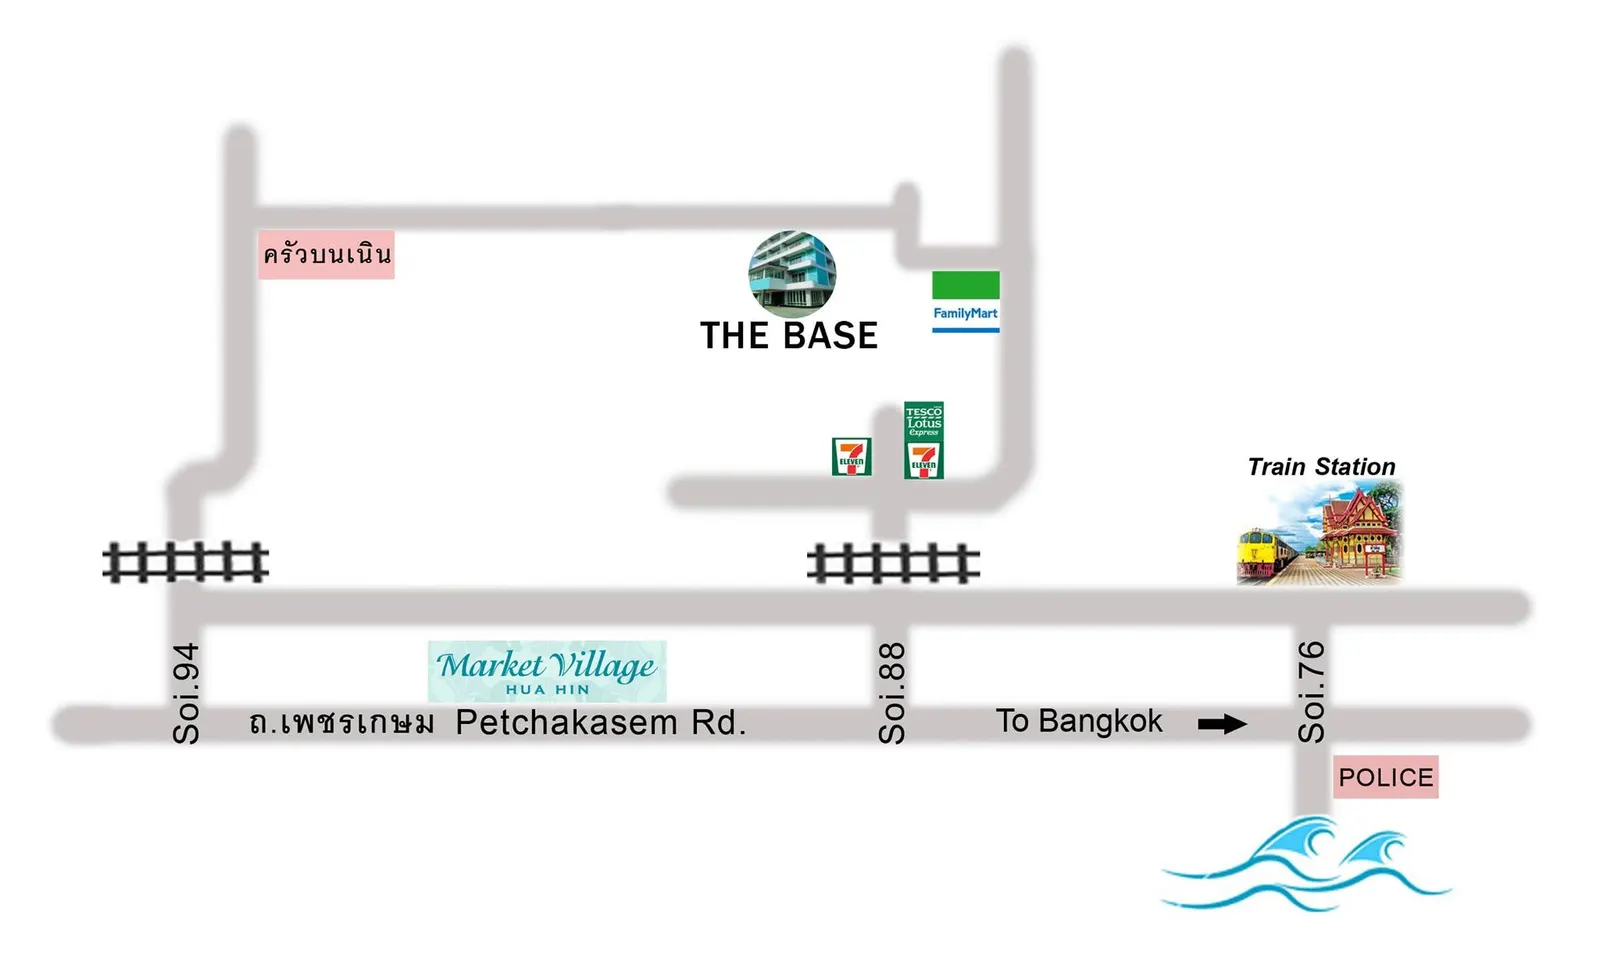
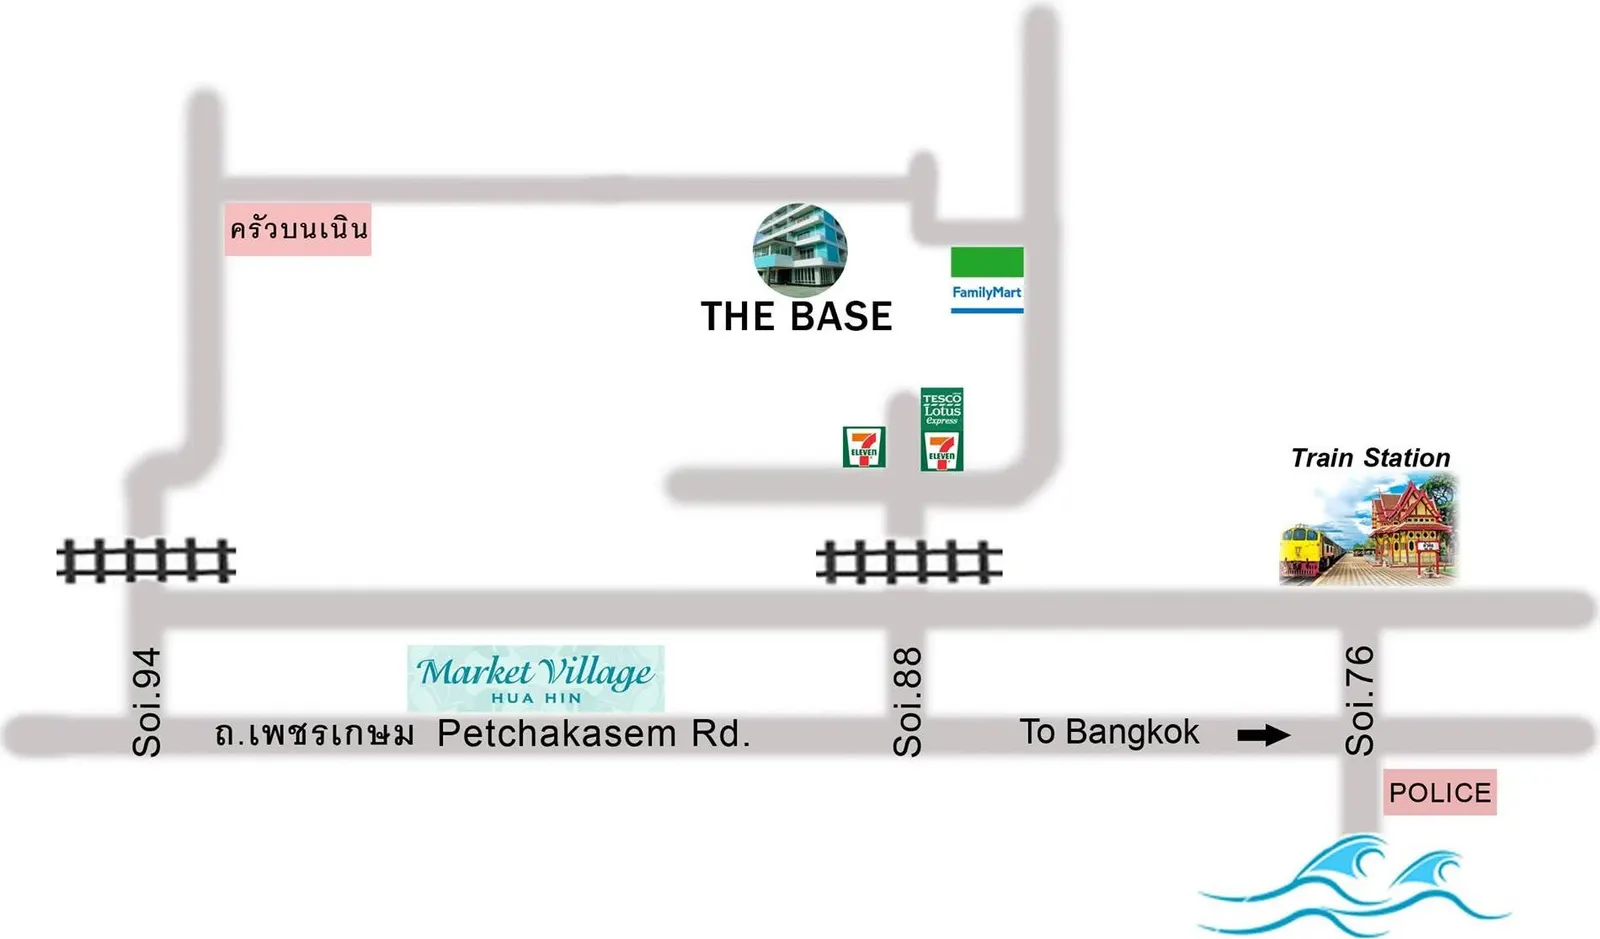
Trim excess white margin from the location map image
The source graphic had a large white border baked in around the
actual map content. Cropped it (2048x1228 -> 1900x1115 before the
usual 1600px webp resize) and updated the width/height attributes and
CSS aspect-ratio to match, removing the white space above/below the
map on the page.

Changed region(s): [[0.0, 0.0, 1.0, 1.0], [0.4375, 0.525, 0.4688, 0.5559]]

diff --git a/css/style.css b/css/style.css
@@ -175,7 +175,7 @@ nav.main-nav a.btn-primary:hover{color:#fff;}
 .location-grid{display:grid;grid-template-columns:1fr 1fr;gap:44px;align-items:center;margin-top:36px;}
 .location-grid img{
   border-radius:var(--radius);box-shadow:var(--shadow);
-  width:420px;aspect-ratio:1600/959;object-fit:contain;background:#fff;
+  width:420px;aspect-ratio:1600/939;object-fit:contain;background:#fff;
   justify-self:start;align-self:start;transition:transform .25s ease;
 }
 .location-grid img:hover{transform:scale(1.06);}

diff --git a/index.html b/index.html
@@ -125,7 +125,7 @@
 <section id="location">
   <div class="container">
     <div class="location-grid">
-      <img class="zoomable" src="Images/map.webp" alt="แผนที่ The Base Hua Hin Apartment" width="1600" height="959" loading="lazy">
+      <img class="zoomable" src="Images/map.webp" alt="แผนที่ The Base Hua Hin Apartment" width="1600" height="939" loading="lazy">
       <div class="location-info">
         <span class="eyebrow" data-i18n="location_eyebrow">ที่ตั้ง</span>
         <h2 class="section-title" data-i18n="location_title">ที่ตั้งสะดวก ใกล้ตัวเมืองหัวหิน</h2>